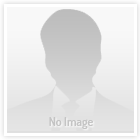
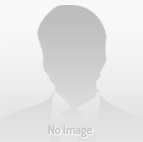
uploading + css/html new default photos

Changed region(s): [[0.0286, 0.7429, 1.0, 0.9714], [0.2571, 0.0286, 0.7429, 0.6], [0.0, 0.9714, 0.0286, 1.0]]

diff --git a/public/css/style.css b/public/css/style.css
@@ -656,11 +656,12 @@ width:100px;
     box-shadow:  -5px 0 6px -6px #888888 inset;
     -moz-box-shadow: -5px 0 6px -6px #888888 inset;
 }
-.leftBlockProfile img{
-    margin-top: 10px;
-    max-height: 140px;
-    width: 140px;
+
+.leftNavPhoto img{
+    margin-left: 2px;
+    margin-top: 9px;
 }
+
 .leftBlockProfile{
     text-align: center;
 }
@@ -958,32 +959,47 @@ noindex:-o-prefocus, .leftBlockProfile .leftNavigation ul {/*hack for opera*/
     height: 24px;
 }
 .profile .profileAvatar {
-    bottom: 37px;
+    bottom: 31px;
     float: right;
-    left: 57px;
-    overflow: hidden;
+    left: 67px;
     position: relative;
 
 }
 .profile .profileAvatar #uploadAvatar{
     background: url("../img/design/accountLayout/glyphicons/upload.png") no-repeat scroll left center transparent;
-    border:  none;
-    bottom: 1px;
+    border: medium none;
+    bottom: 27px;
     font: 12px dosis-semibold-middle;
     position: relative;
+    right: 11px;
     width: 78px;
+}
+.profile .profileAvatar .profileAvaImg{
+    background: url("../img/design/accountLayout/profilePhoto.png") no-repeat;
+    height: 160px;
+    position: relative;
+    width: 160px;
+    right: 8px;
+    top: -8px;
+
+}
+.profile .profileAvatar img{
+    left: 8px;
+    position: relative;
+    top: 8px;
+
 }
 .profile .profileAvatar #uploadAvatar:hover{
     background: url("../img/design/accountLayout/glyphicons/uploadHover.png") no-repeat scroll left center transparent;
 }
 .profile .profileAvatar #removeAvatar{
     background: url("../img/design/accountLayout/glyphicons/delete.png") no-repeat scroll left center transparent;
-    border:  none;
-    bottom: 1px;
+    border: medium none;
+    bottom: 27px;
     font: 12px dosis-semibold-middle;
     position: relative;
+    right: 16px;
     width: 78px;
-    right: 7px;
 }
 .profile .profileAvatar #removeAvatar:hover, .servicesTab #deleteService:hover, .userRelations .deleteUser:hover{
     background: url("../img/design/accountLayout/glyphicons/deleteHover.png") no-repeat scroll left center transparent;
@@ -1857,3 +1873,4 @@ ul.messageTabs{
     margin-top: 16px;
     width: 800px;
 }
+

diff --git a/application/controllers/AccountController.php b/application/controllers/AccountController.php
@@ -22,7 +22,7 @@ class AccountController extends Zend_Controller_Action implements Aimya_Controll
         $profileForm = new Application_Form_Profile();
         $profileModel = new Application_Model_Profile();
         $this->view->profile = $profileForm->populate($profileModel->getProfileAccount($identity->id));
-        $this->view->avatarPath = $profileModel->getAvatarPath($identity->id, 'base'); //path to avatar
+        $this->view->avatarPath = $profileModel->getAvatarPath($identity->id, 'medium'); //path to avatar
         if ($this->getRequest()->isPost()) {
             $formData = $this->getRequest()->getPost();
 
